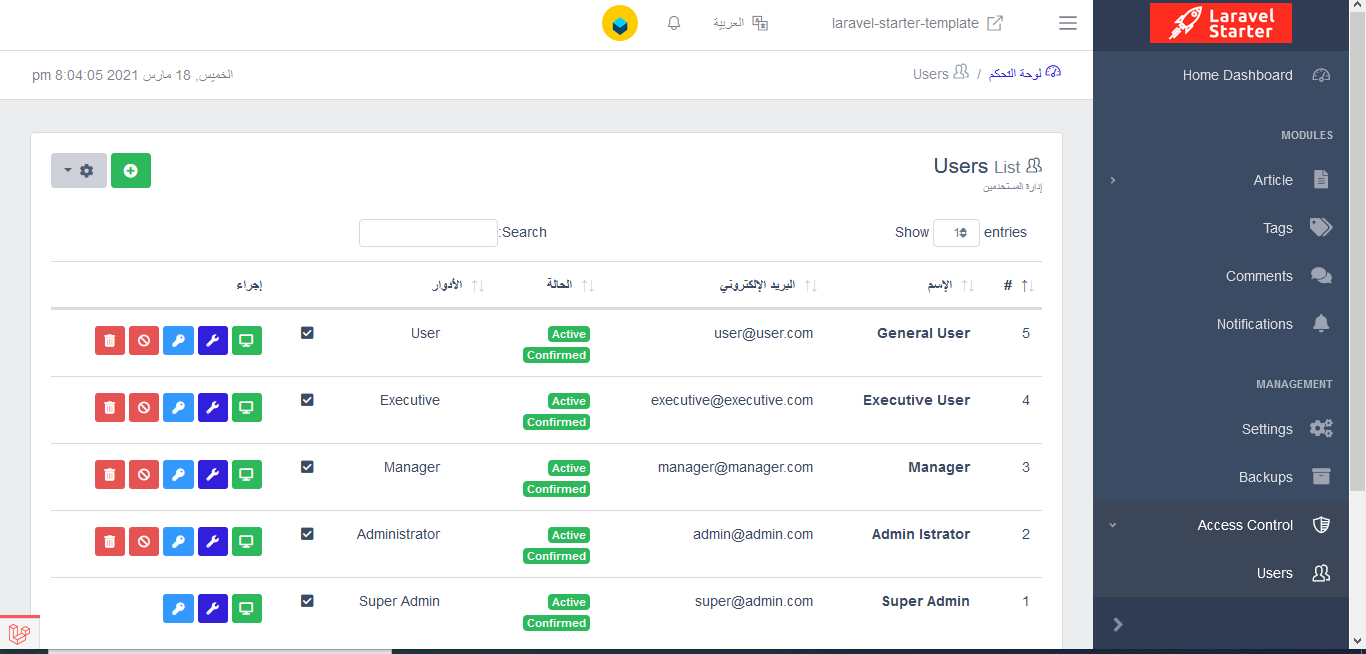
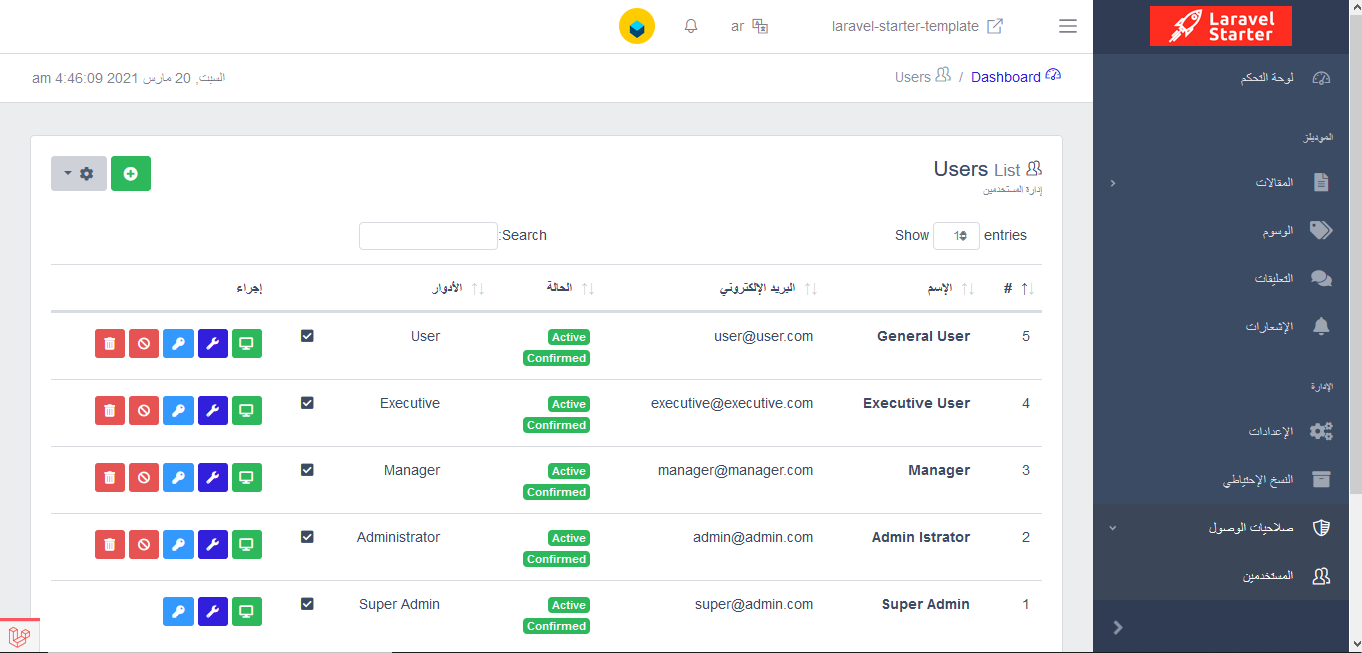
fix many issues with locales and translations

diff --git a/app/Http/Middleware/GenerateMenus.php b/app/Http/Middleware/GenerateMenus.php
@@ -25,7 +25,7 @@ class GenerateMenus
 
         \Menu::make('admin_sidebar', function ($menu) {
             // Dashboard
-            $menu->add('<i class="cil-speedometer c-sidebar-nav-icon"></i> Home Dashboard' , [
+            $menu->add('<i class="cil-speedometer c-sidebar-nav-icon"></i> ' . trans('oa_menues.backend.sidebar.dashboard') , [
                 'route' => 'backend.dashboard',
                 'class' => 'c-sidebar-nav-item',
             ])
@@ -52,7 +52,7 @@ class GenerateMenus
             ]);
 
             // Separator: Access Management
-            $menu->add('Management', [
+            $menu->add(trans('oa_menues.backend.sidebar.management'), [
                 'class' => 'c-sidebar-nav-title',
             ])
             ->data([
@@ -61,7 +61,7 @@ class GenerateMenus
             ]);
 
             // Settings
-           $menu->add('<i class="c-sidebar-nav-icon fas fa-cogs"></i> Settings', [
+           $menu->add('<i class="c-sidebar-nav-icon fas fa-cogs"></i> ' . trans('oa_menues.backend.sidebar.settings'), [
                 'route' => 'backend.settings',
                 'class' => 'c-sidebar-nav-item',
             ])
@@ -75,7 +75,7 @@ class GenerateMenus
             ]);
 
             // Backup
-            $menu->add('<i class="c-sidebar-nav-icon fas fa-archive"></i> Backups', [
+            $menu->add('<i class="c-sidebar-nav-icon fas fa-archive"></i> ' . trans('oa_menues.backend.sidebar.backups'), [
                 'route' => 'backend.backups.index',
                 'class' => 'nav-item',
             ])
@@ -89,7 +89,7 @@ class GenerateMenus
             ]);
 
             // Access Control Dropdown
-            $accessControl = $menu->add('<i class="c-sidebar-nav-icon cil-shield-alt"></i> Access Control', [
+            $accessControl = $menu->add('<i class="c-sidebar-nav-icon cil-shield-alt"></i> ' . trans('oa_menues.backend.sidebar.access_control'), [
                 'class' => 'c-sidebar-nav-dropdown',
             ])
             ->data([
@@ -106,7 +106,7 @@ class GenerateMenus
             ]);
 
             // Submenu: Users
-            $accessControl->add('<i class="c-sidebar-nav-icon cil-people"></i> Users', [
+            $accessControl->add('<i class="c-sidebar-nav-icon cil-people"></i> ' . trans('oa_menues.backend.sidebar.users'), [
                 'route' => 'backend.users.index',
                 'class' => 'nav-item',
             ])
@@ -120,7 +120,7 @@ class GenerateMenus
             ]);
 
             // Submenu: Roles
-            $accessControl->add('<i class="c-sidebar-nav-icon cil-people"></i> Roles', [
+            $accessControl->add('<i class="c-sidebar-nav-icon cil-people"></i> ' . trans('oa_menues.backend.sidebar.roles'), [
                 'route' => 'backend.roles.index',
                 'class' => 'nav-item',
             ])
@@ -135,7 +135,7 @@ class GenerateMenus
 
             // Log Viewer
             // Log Viewer Dropdown
-            $accessControl = $menu->add('<i class="c-sidebar-nav-icon cil-list-rich"></i> Log Viewer', [
+            $accessControl = $menu->add('<i class="c-sidebar-nav-icon cil-list-rich"></i> ' . trans('oa_menues.backend.sidebar.log_viewer'), [
                 'class' => 'c-sidebar-nav-dropdown',
             ])
             ->data([
@@ -151,7 +151,7 @@ class GenerateMenus
             ]);
 
             // Submenu: Log Viewer Dashboard
-            $accessControl->add('<i class="c-sidebar-nav-icon cil-list"></i> Dashboard', [
+            $accessControl->add('<i class="c-sidebar-nav-icon cil-list"></i> ' . trans('oa_menues.backend.sidebar.dashboard'), [
                 'route' => 'log-viewer::dashboard',
                 'class' => 'nav-item',
             ])
@@ -164,7 +164,7 @@ class GenerateMenus
             ]);
 
             // Submenu: Log Viewer Logs by Days
-            $accessControl->add('<i class="c-sidebar-nav-icon cil-list-numbered"></i> Logs by Days', [
+            $accessControl->add('<i class="c-sidebar-nav-icon cil-list-numbered"></i>' . trans('oa_menues.backend.sidebar.logs_by_days'), [
                 'route' => 'log-viewer::logs.list',
                 'class' => 'nav-item',
             ])

diff --git a/Modules/Article/Http/Middleware/GenerateMenus.php b/Modules/Article/Http/Middleware/GenerateMenus.php
@@ -18,13 +18,13 @@ class GenerateMenus
     {
         \Menu::make('admin_sidebar', function ($menu) {
             // Separator: Module Management
-            $all_modules = $menu->add('Modules', [
+            $all_modules = $menu->add(trans('oa_menues.backend.sidebar.modules'), [
                 'class' => 'c-sidebar-nav-title',
             ])
             ->data('order', 80);
 
             // Articles Dropdown
-            $articles_menu = $menu->add('<i class="c-sidebar-nav-icon fas fa-file-alt"></i> Article', [
+            $articles_menu = $menu->add('<i class="c-sidebar-nav-icon fas fa-file-alt"></i>' . trans('oa_menues.backend.sidebar.article'), [
                 'class' => 'c-sidebar-nav-dropdown',
             ])
             ->data([
@@ -41,7 +41,7 @@ class GenerateMenus
             ]);
 
             // Submenu: Posts
-            $articles_menu->add('<i class="c-sidebar-nav-icon fas fa-file-alt"></i> Posts', [
+            $articles_menu->add('<i class="c-sidebar-nav-icon fas fa-file-alt"></i> ' . trans('oa_menues.backend.sidebar.posts'), [
                 'route' => 'backend.posts.index',
                 'class' => 'c-sidebar-nav-item',
             ])
@@ -54,7 +54,7 @@ class GenerateMenus
                 'class' => "c-sidebar-nav-link",
             ]);
             // Submenu: Categories
-            $articles_menu->add('<i class="c-sidebar-nav-icon fas fa-sitemap"></i> Categories', [
+            $articles_menu->add('<i class="c-sidebar-nav-icon fas fa-sitemap"></i> ' . trans('oa_menues.backend.sidebar.categories'), [
                 'route' => 'backend.categories.index',
                 'class' => 'c-sidebar-nav-item',
             ])

diff --git a/resources/lang/ar/oa_menues.php b/resources/lang/ar/oa_menues.php
@@ -1,7 +1,6 @@
 <?php
 
 /*  this is my own translation files
- * Eng: Omar Alalwi
  * find me in github: https://github.com/omaralwi
 */
 
@@ -31,12 +30,22 @@ return array (
 	'sidebar' => 
 	   array (
 	   
-		'' => '',
+		'dashboard' => 'لوحة التحكم',
 		'notifications' => 'الإشعارات',
-		'' => '',
-		'' => '',
-		'' => '',
-		'' => '',
+		'settings' => 'الإعدادات',
+		'backups' => 'النسخ الإحتياطي',
+		'access_control' => 'صلاحيات الوصول',
+		'users' => 'المستخدمين',
+		'roles' => 'الأدوار',
+		'log_viewer' => 'مستعرض السجل',
+		'logs_by_days' => 'السجل بالأيام',
+		'management' => 'الإدارة',
+		'modules' => 'الموديلز',
+		'article' => 'المقالات',
+		'posts' => 'المنشورات',
+		'categories' => 'التصنيفات',
+		'tags' => 'الوسوم',
+		'comments' => 'التعليقات',
 		'' => '',
 		'' => '',
 		'' => '',

diff --git a/resources/lang/en/oa_menues.php b/resources/lang/en/oa_menues.php
@@ -1,6 +1,5 @@
 <?php
 /*  this is my own translation files
- * Eng: Omar Alalwi
  * find me in github: https://github.com/omaralwi
 */
 
@@ -28,14 +27,22 @@ return array (
 	'sidebar' => 
 	   array (
 	   
-		'' => '',
+		'dashboard' => 'Dashboard',
 		'notifications' => 'Notifications',
-		'' => '',
-		'' => '',
-		'' => '',
-		'' => '',
-		'' => '',
-		'' => '',
+		'settings' => 'Settings',
+		'backups' => 'Backups',
+		'access_control' => 'Access Control',
+		'users' => 'Users',
+		'roles' => 'Roles',
+		'log_viewer' => 'LogViewer',
+		'logs_by_days' => 'Logs by Days',
+		'management' => 'Management',
+		'modules' => 'Modules',
+		'article' => 'Article',
+		'posts' => 'Posts',
+		'categories' => 'Categories',
+		'tags' => 'Tags',
+		'comments' => 'Comments',
 		'' => '',
 		
 		),

diff --git a/routes/web.php b/routes/web.php
@@ -20,16 +20,19 @@ Route::group(
         'middleware' => [ 'localeSessionRedirect', 'localizationRedirect', 'localeViewPath']
     ], 
     function(){ //start Frontend LOCALIZED Routes
-
-    /** ADD ALL LOCALIZED ROUTES INSIDE THIS GROUP **/
     
     // frontend Routes
     require __DIR__.'/frontend.php';
 
 }); // colse Frontend LOCALIZED Routes
 
-// Atom/ RSS Feed Routes 
- //   Route::feeds();
+Route::group([
+    'prefix' => LaravelLocalization::setLocale(),
+    'middleware' => ['localeSessionRedirect', 'localizationRedirect','localeViewPath'] 
+    ], function(){ //start Backend LOCALIZED Routes
+    // Atom/ RSS Feed Routes 
+    Route::feeds();
+});
 
 Route::group([
     'prefix' => LaravelLocalization::setLocale(),

diff --git a/Modules/Comment/Resources/lang/en/posts.php b/Modules/Comment/Resources/lang/en/posts.php
@@ -1,0 +1,25 @@
+<?php
+
+return [
+
+    'name' => 'Name',
+    'slug' => 'Slug',
+    'created_by_alias' => 'Author Name Alias',
+    'intro' => 'Intro',
+    'content' => 'Content',
+    'featured_image' => 'Featured Image',
+    'category_id' => 'Category',
+    'type' => 'Type',
+    'is_featured' => 'Is Featured',
+    'tags' => 'Tags',
+    'status' => 'Status',
+    'published_at' => 'Published At',
+
+    "meta_title" => "Meta Title",
+    "meta_keywords" => "Meta Keywords",
+    "meta_description" => "Meta Description",
+    "meta_og_image" => "Meta Open Graph Image",
+    "meta_og_url" => "Meta Open Graph URL",
+    "order" => "Order",
+
+];

diff --git a/Modules/Tag/Resources/lang/en/posts.php b/Modules/Tag/Resources/lang/en/posts.php
@@ -1,0 +1,25 @@
+<?php
+
+return [
+
+    'name' => 'Name',
+    'slug' => 'Slug',
+    'created_by_alias' => 'Author Name Alias',
+    'intro' => 'Intro',
+    'content' => 'Content',
+    'featured_image' => 'Featured Image',
+    'category_id' => 'Category',
+    'type' => 'Type',
+    'is_featured' => 'Is Featured',
+    'tags' => 'Tags',
+    'status' => 'Status',
+    'published_at' => 'Published At',
+
+    "meta_title" => "Meta Title",
+    "meta_keywords" => "Meta Keywords",
+    "meta_description" => "Meta Description",
+    "meta_og_image" => "Meta Open Graph Image",
+    "meta_og_url" => "Meta Open Graph URL",
+    "order" => "Order",
+
+];

diff --git a/Modules/Comment/Http/Middleware/GenerateMenus.php b/Modules/Comment/Http/Middleware/GenerateMenus.php
@@ -25,7 +25,7 @@ class GenerateMenus
         \Menu::make('admin_sidebar', function ($menu) {
 
             // comments
-            $menu->add('<i class="fas fa-comments c-sidebar-nav-icon"></i> Comments', [
+            $menu->add('<i class="fas fa-comments c-sidebar-nav-icon"></i> ' . trans('oa_menues.backend.sidebar.comments'), [
                 'route' => 'backend.comments.index',
                 'class' => 'c-sidebar-nav-item',
             ])

diff --git a/Modules/Tag/Http/Middleware/GenerateMenus.php b/Modules/Tag/Http/Middleware/GenerateMenus.php
@@ -25,7 +25,7 @@ class GenerateMenus
         \Menu::make('admin_sidebar', function ($menu) {
 
             // Tags
-            $menu->add('<i class="fas fa-tags c-sidebar-nav-icon"></i> Tags', [
+            $menu->add('<i class="fas fa-tags c-sidebar-nav-icon"></i> ' . trans('oa_menues.backend.sidebar.tags'), [
                 'route' => 'backend.tags.index',
                 'class' => "c-sidebar-nav-item",
             ])

diff --git a/README.md b/README.md
@@ -8,7 +8,7 @@ laravel starter Template, to save your time when You start with new scalable Lar
 
 # Based on Laravel8.x
 
-![backend-rtl2](https://amoori-web-app-resources.s3-ap-southeast-1.amazonaws.com/laravel-starter-template-screenshots/backend-rtl2.png)
+![backend-rtl2](https://amoori-web-app-resources.s3-ap-southeast-1.amazonaws.com/laravel-starter-template-screenshots/backend-rtl3.png)
 
 # Requirements
 
